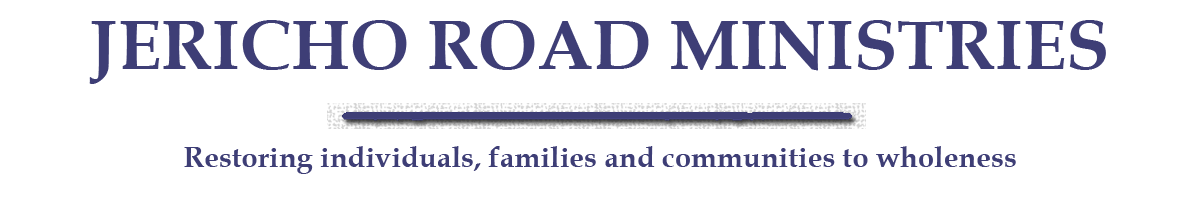
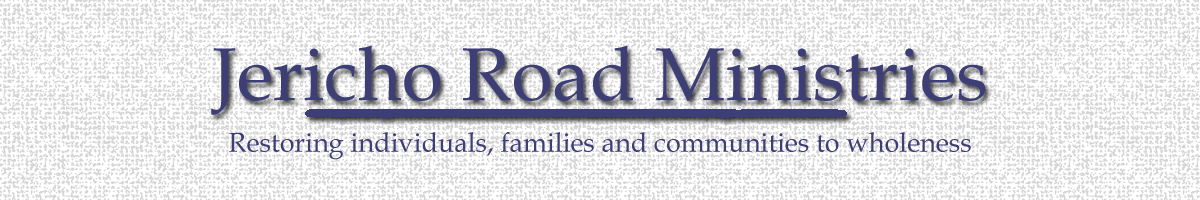
jrmtc.dev.1.0.2

diff --git a/Default.html b/Default.html
@@ -17,20 +17,27 @@
                     $(this).animate({ opacity: 1.0 }, toggleSpeed);
                 })
             $('#frm1').attr('src', "Pages/Home.html");
-        });
-
-
-      
+        });      
     </script>
 </head>
 <body>
 
 <div class="Banner">
-    <img src="Images/JRMLogo.gif" style="position:absolute;top:0px;left:0px;width:12%;" />
-    <div style="position:absolute;top:0px;right:0px;width:12%;">
-    
+    <div class="BannerLeft">
+        <img src="Images/JRMLogo.gif" style="width:100%;height:100%;padding:20px;" />
+    </div>    
+    <div class="BannerImg">
+        <img src="Images/JRM-TCBanner.png" style="width:100%;height:100%;" />
     </div>
-    <img src="Images/JRM-TCBanner.png" />
+    <div style="position:absolute;top:20px;right:10px;width:10%;margin-right:20px;font-size:80%;color:#3E3E76;">
+        <p style="text-align:center;">
+        2500 Jericho Road
+        Richland, WA  99352
+        509-627-0750
+        <a href="mailto:amy@richlandnaz.org">amy@richlandnaz.org</a> 
+        </p>
+    </div>
+    
     <div id="navigation">
         <ul>
             <li><a href="Pages/Home.html" target="frm1">Home</a>

diff --git a/Styles/site.css b/Styles/site.css
@@ -22,16 +22,25 @@ h1
     position:fixed;
     height:20%;
     width:100%;
-    background-color:White;  
-    z-index:100;  
+    background-color:White;
+    z-index:10;
+    
 }
-.Banner img
+.BannerLeft
 {
+    position:absolute;
+    top:0px;
+    left:0px;
+    width:12%;       
+    z-index:20;
+}
+.BannerImg
+{
+    position:absolute;
+    top:0;
+    bottom:20%;    
     width:100%;
     height:100%;
-    bottom:20%;
-    margin:0;
-    padding:0;
 }
 
 
@@ -48,7 +57,7 @@ h1
     border-top-color:#3E3E76;
     border-bottom-style:double;
     border-bottom-color:#3E3E76;
-
+    z-index:150;
         
 }
 #navigation ul
